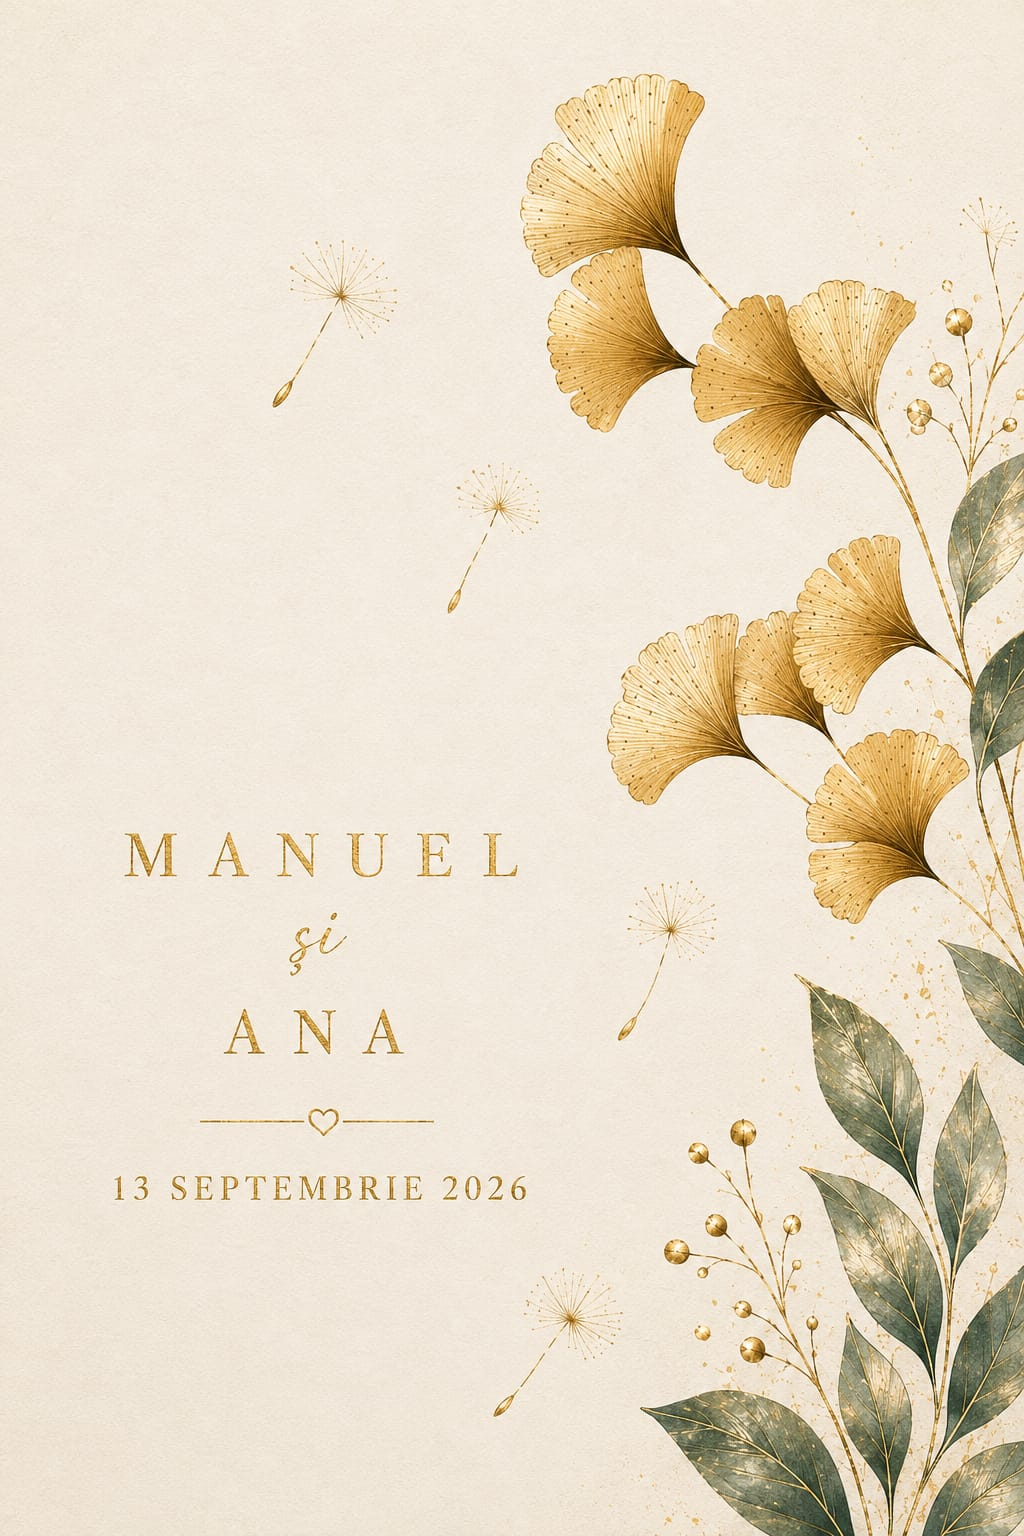
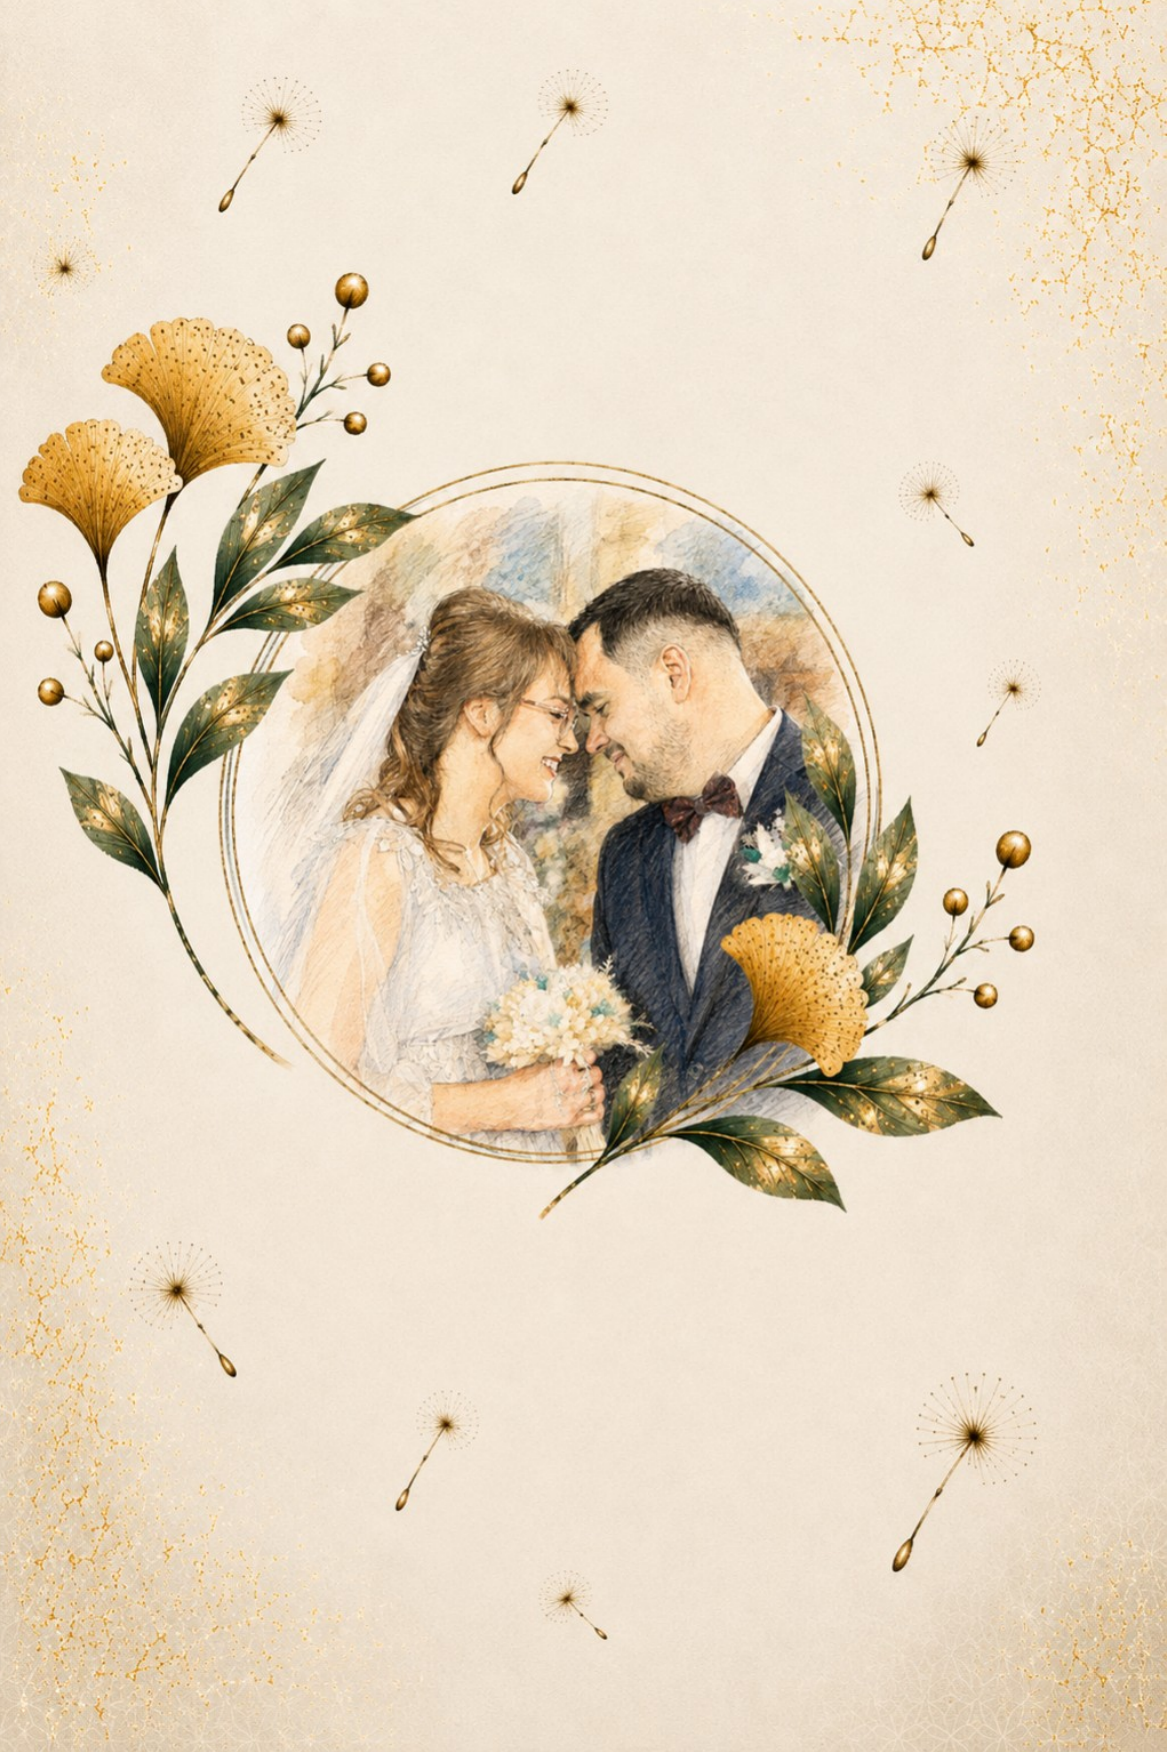
update images cununie , intro page , main page

diff --git a/cununie.html b/cununie.html
@@ -12,6 +12,14 @@
             <img src="cununie/photo1.jpg" alt="Cununie moment 1">
             <img src="cununie/photo2.jpg" alt="Cununie moment 2">
             <img src="cununie/photo3.jpg" alt="Cununie moment 3">
+			<img src="cununie/photo4.jpg" alt="Cununie moment 4">
+            <img src="cununie/photo5.jpg" alt="Cununie moment 5">
+            <img src="cununie/photo6.jpg" alt="Cununie moment 6">
+            <img src="cununie/photo7.jpg" alt="Cununie moment 7">
+            <img src="cununie/photo8.jpg" alt="Cununie moment 8">
+			<img src="cununie/photo9.jpg" alt="Cununie moment 9">
+            <img src="cununie/photo10.jpg" alt="Cununie moment 10">
+            <img src="cununie/photo11.jpg" alt="Cununie moment 11">
         </section>
 
         <a class="menu-button back-home" href="index.html?view=main">Înapoi</a>

diff --git a/index.html b/index.html
@@ -16,7 +16,7 @@
 
     <main id="mainContent" class="main-page hidden">
         <section class="main-photo-section">
-            <img src="images/couple.jpg" alt="Fotografia principală" class="main-photo" loading="eager" fetchpriority="high">
+            <img src="images/invitation.jpg" alt="Fotografia principală" class="main-photo" loading="eager" fetchpriority="high">
         </section>
 
         <nav class="main-menu" aria-label="Meniu principal">